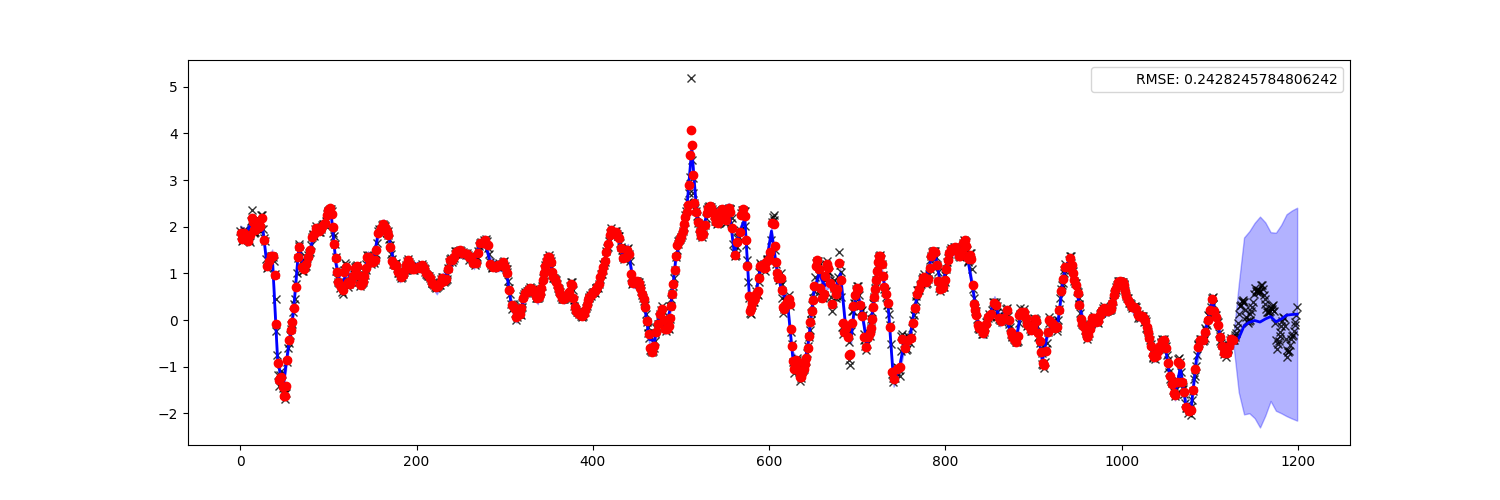
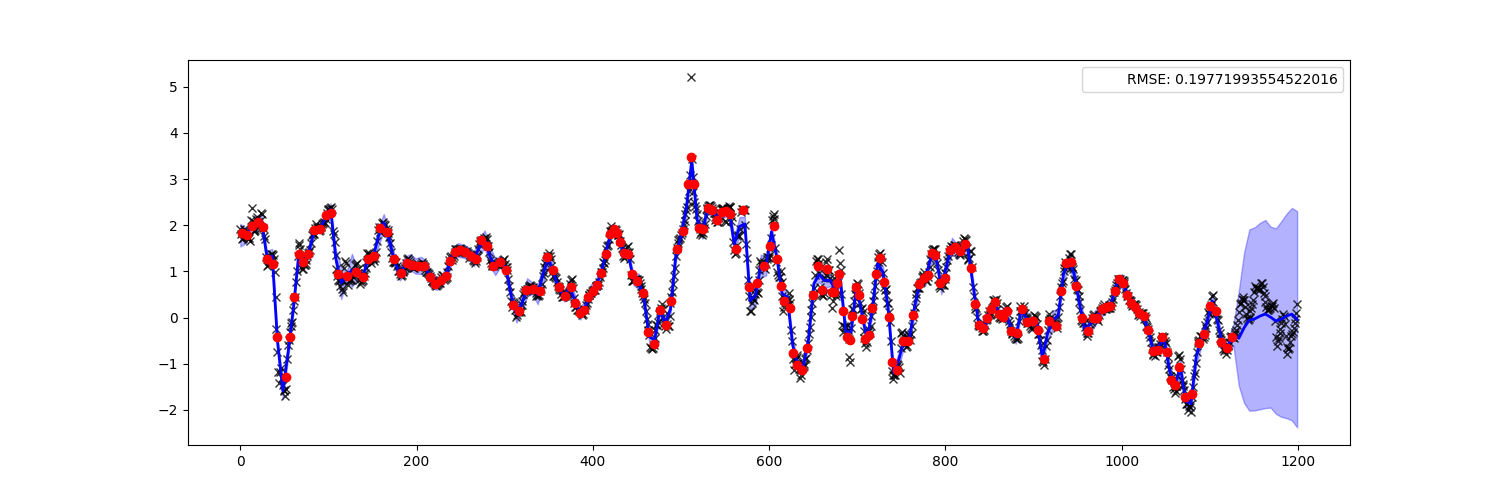
add q-q plot

diff --git a/experiments/gpflow_gp_time.py b/experiments/gpflow_gp_time.py
@@ -4,6 +4,7 @@ import tensorflow as tf
 import matplotlib.pyplot as plt
 from matplotlib.patches import Rectangle
 from sklearn.metrics import mean_squared_error
+from statsmodels.graphics.gofplots import qqplot_2samples
 
 from experiments.pymc_gp_time import get_data
 
@@ -40,18 +41,22 @@ def plot_result(model, cur_x, cur_y,  x_star, y_star):
     return mu, Su, Zopt, rmse
 
 
+def qqplot(model, X, y, ax=None):
+    sample = model.predict_f_samples(X, 1)[0, :, 0]
+    y = y[:, 0]
+    qqplot_2samples(y, sample, ylabel='Posterior quantiles',
+                    xlabel='Data quantiles', line='45', ax=ax)
+    plt.show()
+
+
 def train_model(M=30):
+    np.random.seed(0)
+    tf.random.set_seed(0)
     X, y, x_star, y_star = get_data(data_file)
-    print(len(X))
     y = y[:, None]
     X = X.astype(np.float64)
     x_star = x_star.astype(np.float64)
     y_star = y_star[:, None]
-    print(X.shape, y.shape)
-    print(X.dtype, y.dtype)
-    print(np.isnan(X).any())
-    print(np.isnan(y).any())
-
 
     Z = X[np.random.permutation(X.shape[0])[0:M], :]
 
@@ -62,7 +67,7 @@ def train_model(M=30):
             )
     cov = mt * pk
     model = gpflow.models.sgpr.SGPR((X, y), cov, Z)
-    
+
     # gpflow.utilities.print_summary(model)
 
     optimizer = gpflow.optimizers.Scipy()
@@ -71,10 +76,11 @@ def train_model(M=30):
     # gpflow.utilities.print_summary(model)
 
     _, _, _, rmse = plot_result(model, X, y, x_star, y_star)
+    qqplot(model, X, y)
     return rmse
 
 
-if __name__ == '__main__':
+def rmse_from_num_ind():
     np.random.seed(0)
     tf.random.set_seed(0)
     num_ind = [10, 30, 100, 200, 300, 400, 600]
@@ -84,3 +90,7 @@ if __name__ == '__main__':
     plt.ylabel('RMSE')
     plt.savefig("experiments/plots/SGPR_num_ind.png")
     plt.show()
+
+
+if __name__ == "__main__":
+    train_model(200)

diff --git a/experiments/plot_trace.py b/experiments/plot_trace.py
@@ -3,6 +3,7 @@ import matplotlib.pyplot as plt
 from matplotlib.patches import Rectangle
 from pymc3.gp.util import plot_gp_dist
 from sklearn.metrics import mean_squared_error
+from statsmodels.graphics.gofplots import qqplot_2samples
 
 from experiments.pymc_gp_time import get_data
 
@@ -36,6 +37,10 @@ def plot_trace(trace, X, X_star, y=None, y_star=None):
     ax.legend([extra], (f"RMSE: {rmse}",))
     plt.savefig("experiments/plots/" + trace.split('/')[-1] + '.png')
     plt.show()
+    if y is not None:
+        qqplot_2samples(y, ad.posterior['pr'][0, :, 0], ylabel='Posterior quantiles',
+                        xlabel='Data quantiles', line='r')
+        plt.show()
 
 
 if __name__ == '__main__':
